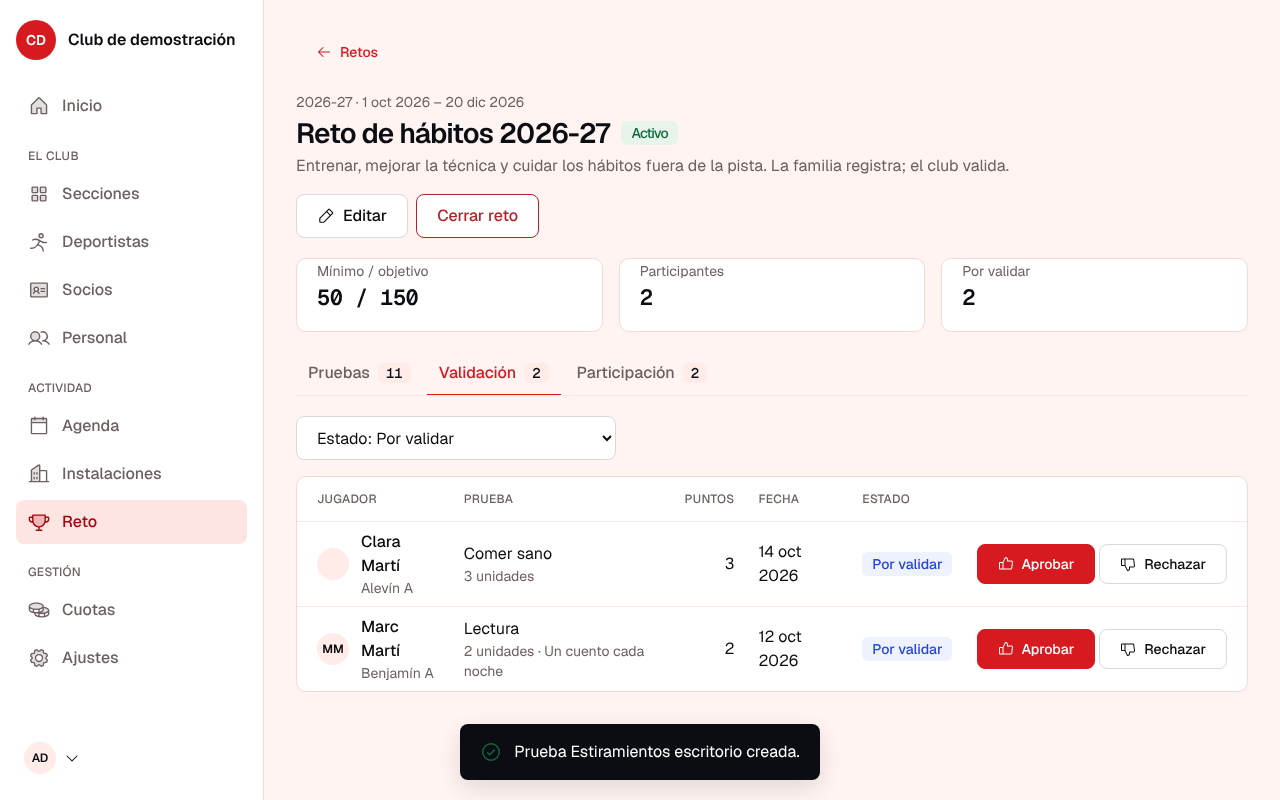
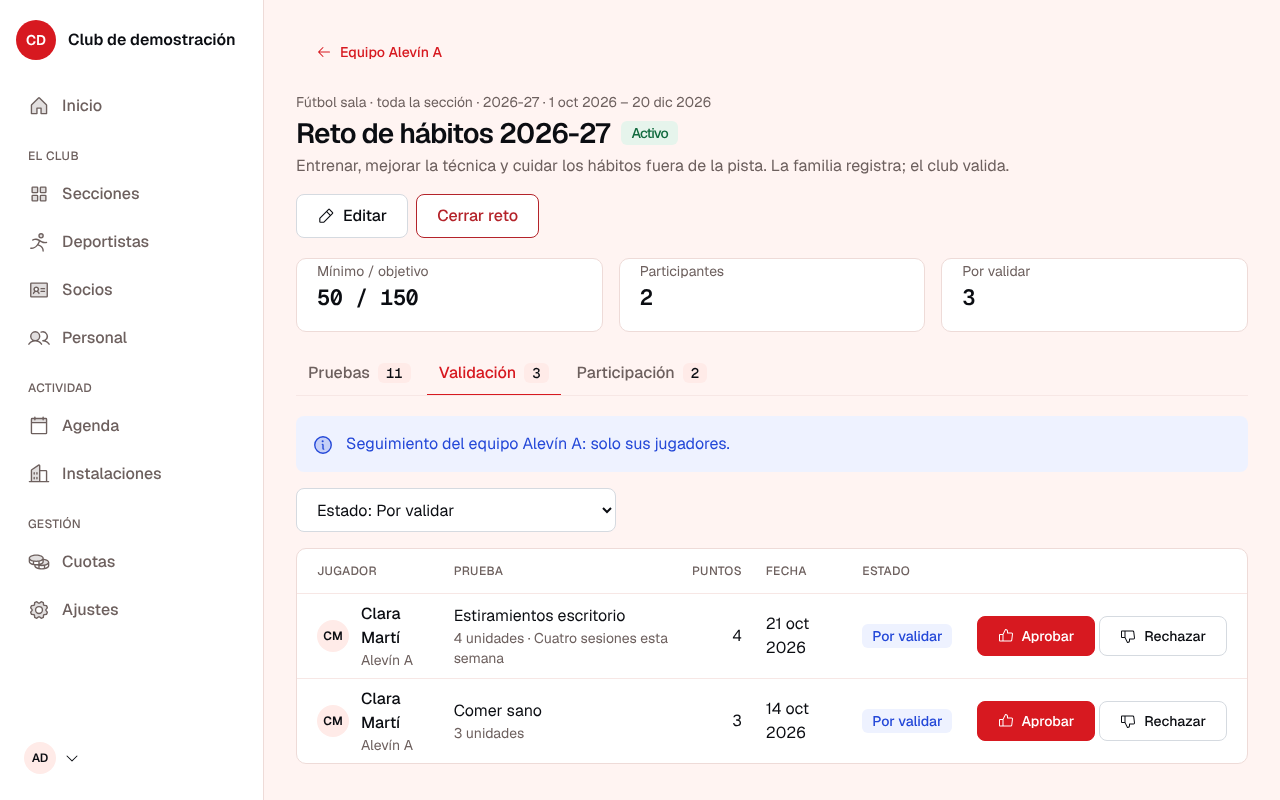
docs: capturas del reto dentro de cada equipo y sección
Claude-Session: https://claude.ai/code/session_014yQj82pBJqHU9VCwZQCUie

diff --git a/docs/capturas/README.md b/docs/capturas/README.md
@@ -272,15 +272,19 @@ Cada club vive en una ruta del mismo dominio: el club demo en `/demo`, el negoci
 
 ![Inicio de la entrenadora](escritorio-48b-entrenadora-inicio.png)
 
-## Reto por puntos (`/demo/challenges`, Bloque 13; ámbito por sección o equipo, ADR 0032)
+## Reto por puntos (Bloque 13; ámbito por sección o equipo, ADR 0032). Sin entrada en la barra: vive en cada sección y cada equipo
 
-### Retos del club: cada uno de una sección entera o de un solo equipo
+### Pestaña "Retos" de una sección: el de toda la sección y el de cada equipo
 
-![Retos](escritorio-70-retos.png)
+![Retos de la sección](escritorio-70-retos.png)
 
-### Nuevo reto (hoja): sección y alcance, toda la sección o un solo equipo
+### Nuevo reto desde la sección (hoja): la sección viene dada; toda la sección o un solo equipo
 
 ![Nuevo reto](escritorio-70b-reto-nuevo.png)
+
+### El reto en la ficha del equipo: el suyo, el de su sección y el histórico
+
+![Reto del equipo](escritorio-70c-equipo-retos.png)
 
 ### Un reto: catálogo de pruebas
 
@@ -290,7 +294,7 @@ Cada club vive en una ruta del mismo dominio: el club demo en `/demo`, el negoci
 
 ![Nueva prueba](escritorio-71b-reto-prueba-nueva.png)
 
-### Validación de los registros de las familias
+### Validación de los registros de las familias, acotada al equipo desde el que se abrió
 
 ![Validación](escritorio-72-reto-validacion.png)
 
@@ -496,7 +500,7 @@ Las mismas pantallas en un móvil, con la forma envolvente del design system: ca
 
 ### Retos
 
-![Retos (móvil)](movil-70-retos.png)
+![Retos de la sección (móvil)](movil-70-retos.png)
 
 ### Validación del reto
 
